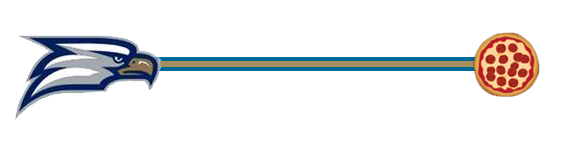
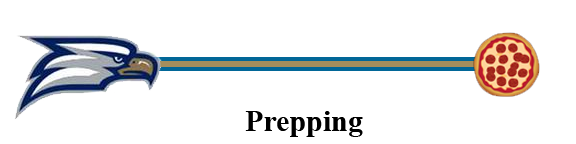
pizzatracker

Changed region(s): [[0.4062, 0.75, 0.6562, 0.9722]]

diff --git a/pizzatracker.php b/pizzatracker.php
@@ -1,0 +1,31 @@
+<!--pizzatracker.php -->
+<!-- https://www.w3schools.com/jsref/met_win_settimeout.asp   information on the setTimeout function.-->
+
+<?php include("header.php"); ?>
+
+<main>
+	<p>Your order has been processed!</p>
+	<!--Start with pizza tracker image 1 -->
+	<img id= "pt" src="img/pizzatrack1.png" alt="Pizza Tracker Phase 1: Prep">
+ 
+ 
+	<script type="text/javascript">
+		setTimeout(changePizzaTracker12, 3000);  //3000 = 3 seconds
+		setTimeout(changePizzaTracker23, 6000);  //6000 = 6 seconds
+
+		function changePizzaTracker12() {
+			//Change pt1 to pt2
+			document.getElementById('pt').src = 'img/pizzatrack2.png';
+			document.getElementById('pt').alt = 'Pizza Tracker Phase 2: Cooking';
+		}
+		function changePizzaTracker23() {
+			//Change pt2 to pt3
+			document.getElementById('pt').src = 'img/pizzatrack3.png';
+			document.getElementById('pt').alt = 'Pizza Tracker Phase 3: Finished';
+		}
+	</script>
+
+</main>
+
+<?php include("footer.php");?>
+
